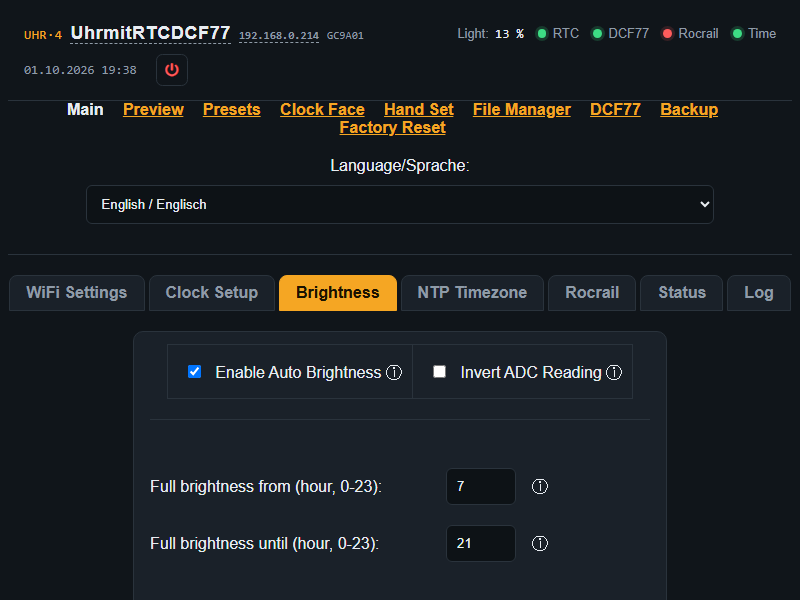
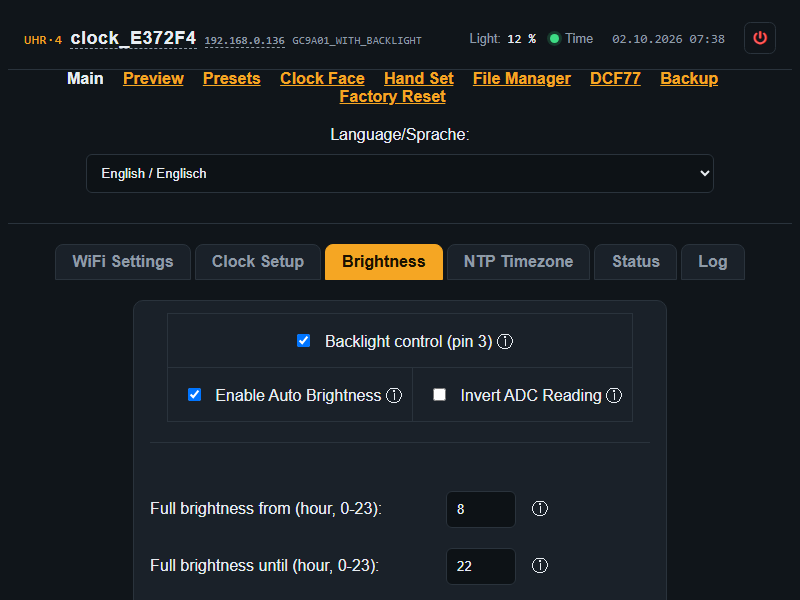
Update screenshots

diff --git a/CHANGELOG.md b/CHANGELOG.md
@@ -5,6 +5,8 @@
 ## 2026-10-02
 
 ### Geändert
+- Screenshots (`screenshots/de`, `screenshots/en`) neu aufgenommen; die Seite DCF77 stammt von einer Uhr mit
+  Empfänger.
 - Auswahl der mitgelieferten Zifferblätter, Zeiger und Presets überarbeitet (`graphic/` mit den Zips
   `faces_handsets_160.zip` und `faces_handsets_240.zip`, `presets.txt`).
 
@@ -19,6 +21,8 @@
 ## 2026-10-02
 
 ### Changed
+- Retook the screenshots (`screenshots/de`, `screenshots/en`); the DCF77 page comes from a clock with a
+  receiver.
 - Revised the selection of included clock faces, hands and presets (`graphic/` with the zips
   `faces_handsets_160.zip` and `faces_handsets_240.zip`, `presets.txt`).
 
